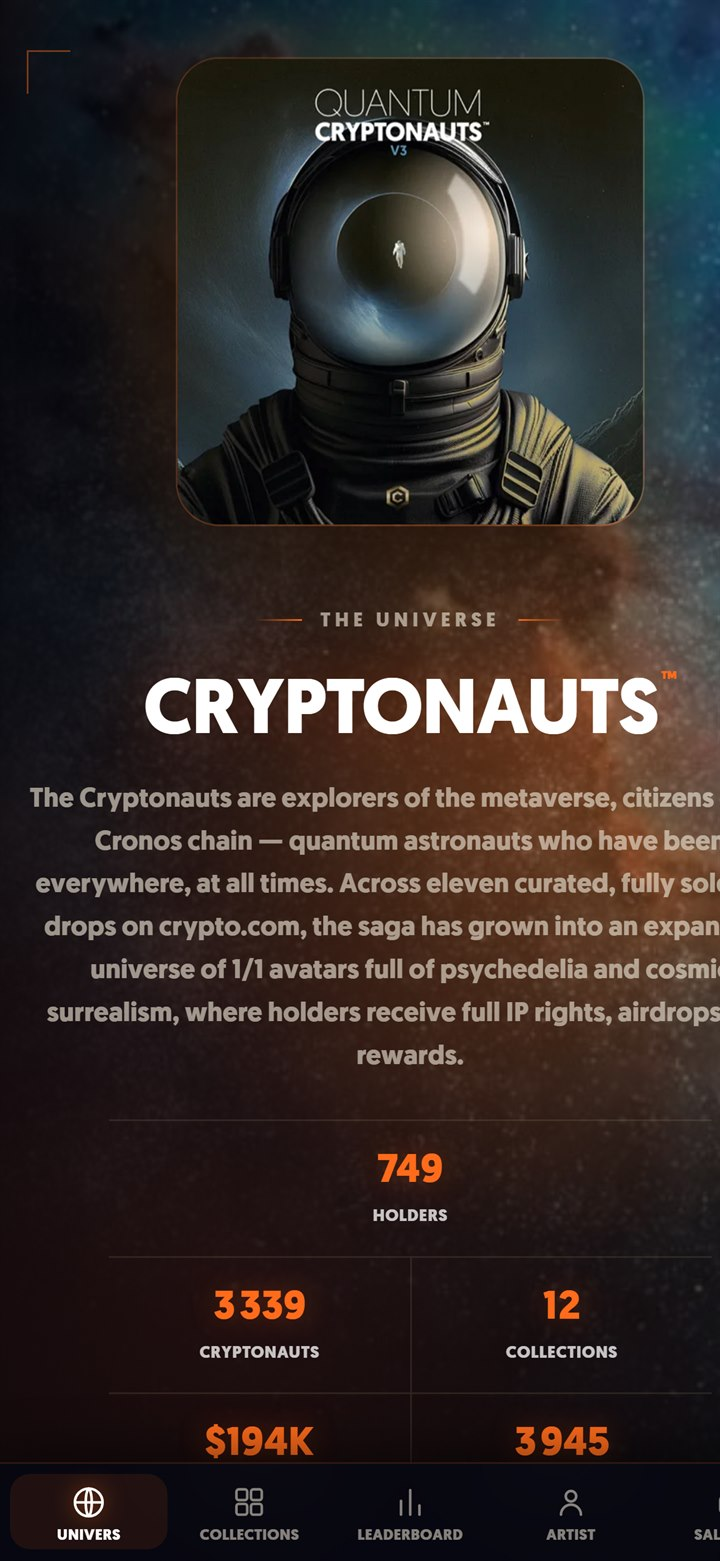
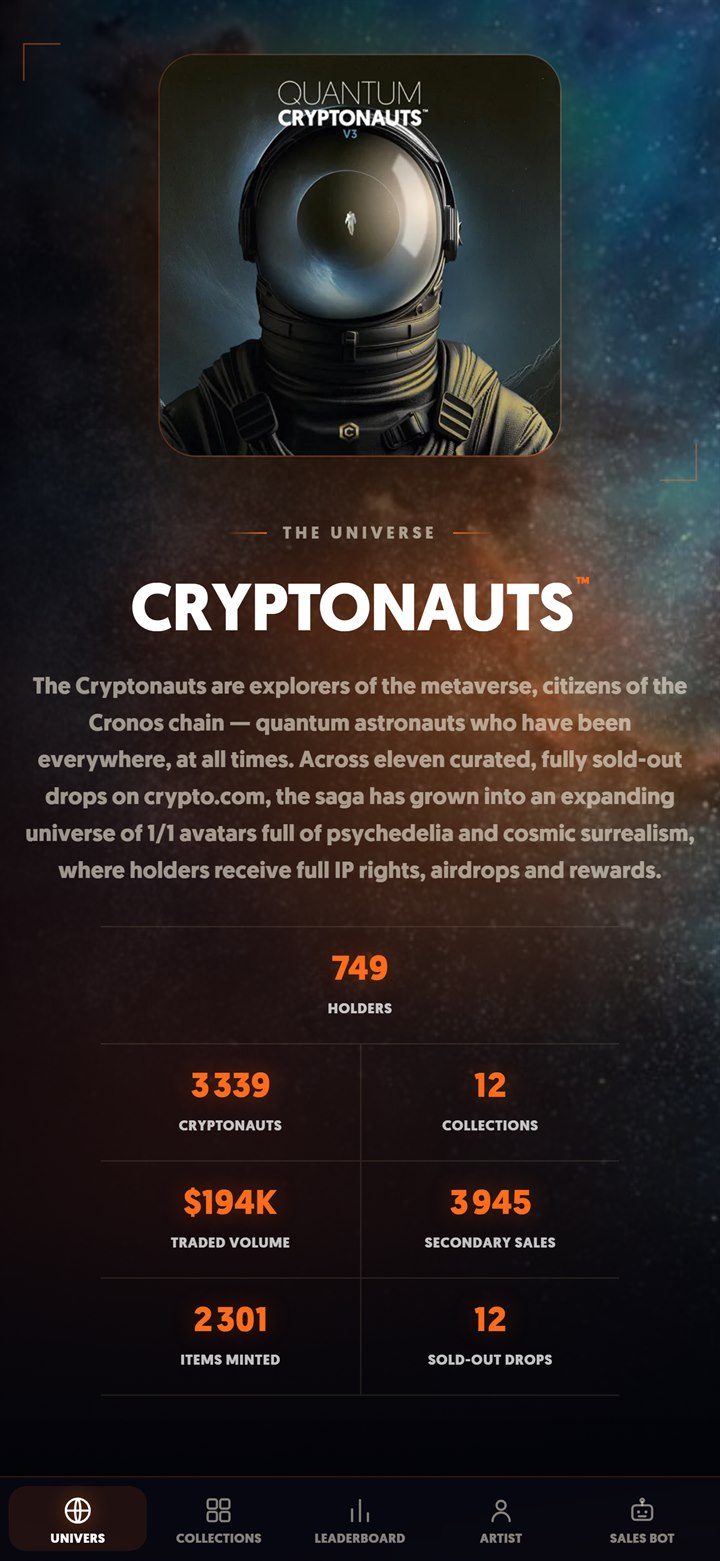
Vitrine : telephone DEVANT le PC, bezel mini, apercu mobile pleine largeur
- z-index : le telephone repasse DEVANT le navigateur (plus derriere).
- Bezel encore reduit (padding 0.6%) : l'ecran colle au bord.
- Captures mobiles refaites a 500px de large -> le contenu du site tient
  entierement (Oryxia debordait a 430px) => 100% de la largeur, sans coupe.

Claude-Session: https://claude.ai/code/session_0127Z73V9gsaBQEdmrtoZHUB

diff --git a/styles.css b/styles.css
@@ -1024,10 +1024,10 @@ a.project:hover .project-thumb::after, a.project:focus-visible .project-thumb::a
 /* Vitrine réalisations : carrousel PC + mobile */
 .showcase { display: grid; grid-template-columns: 1.48fr 0.72fr; gap: 26px; align-items: center; }
 .showcase-stage { position: relative; perspective: 1600px; }
-.devices { position: relative; width: min(100%, 720px); margin-inline: auto; transition: transform 0.2s var(--ease); transform-style: preserve-3d; will-change: transform; }
+.devices { position: relative; width: min(100%, 720px); margin-inline: auto; }
 
 .browser {
-  position: relative; width: 74%; border-radius: 13px; overflow: hidden;
+  position: relative; z-index: 1; width: 74%; border-radius: 13px; overflow: hidden;
   transition: transform 0.18s var(--ease); will-change: transform;
   background: linear-gradient(160deg, #1c2c44, #0b1422);
   border: 1px solid var(--border);
@@ -1043,8 +1043,8 @@ a.project:hover .project-thumb::after, a.project:focus-visible .project-thumb::a
 .browser-screen::after { content: ""; position: absolute; inset: 0; pointer-events: none; background: linear-gradient(120deg, rgba(255, 255, 255, 0.10) 0%, rgba(255, 255, 255, 0.03) 12%, transparent 26%); }
 
 .phone {
-  position: absolute; right: 0; bottom: -6%; width: 27%;
-  border-radius: 14% / 6.5%; padding: 1.1%;
+  position: absolute; right: 0; bottom: -6%; width: 27%; z-index: 5;
+  border-radius: 13.5% / 6.3%; padding: 0.6%;
   transition: transform 0.18s var(--ease); will-change: transform;
   background: linear-gradient(145deg, #34394557 0%, #14171e 40%, #05070b 100%), #0a0c11;
   box-shadow: 0 36px 60px -20px rgba(0, 0, 0, 0.85), 0 8px 22px -10px rgba(0, 0, 0, 0.6),
